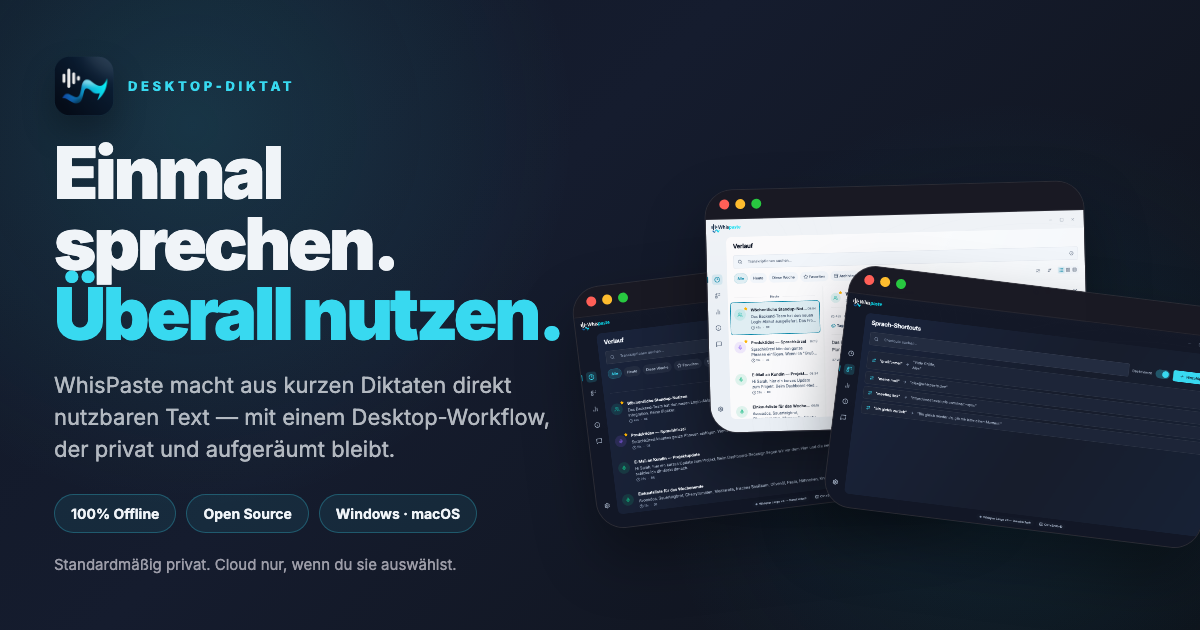
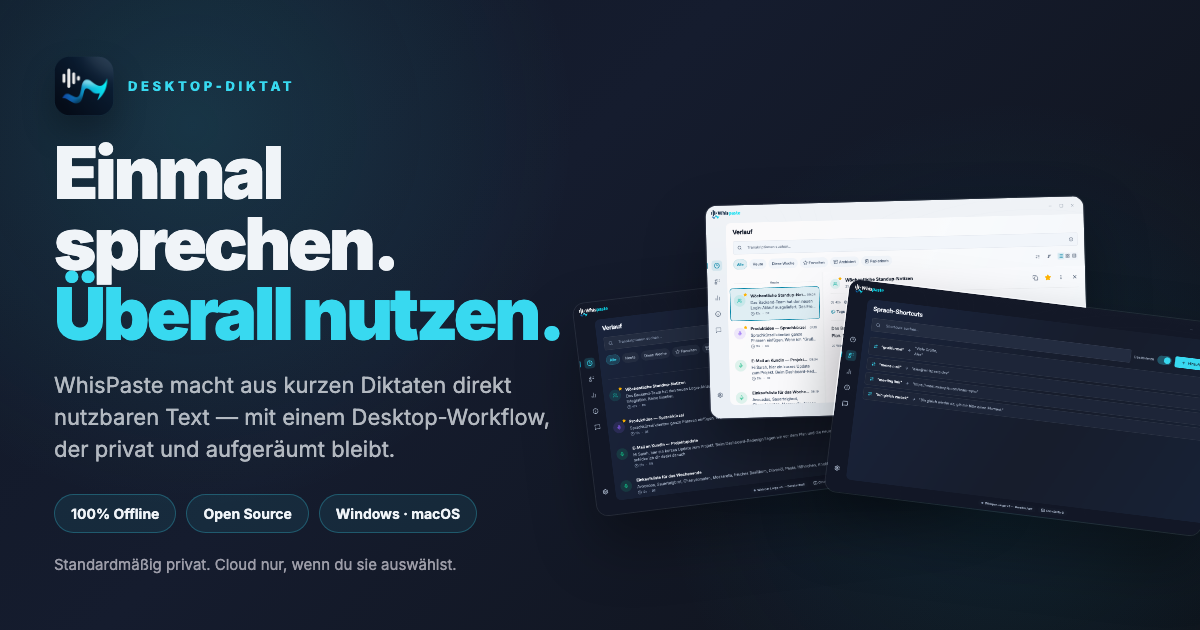
fix(og-images): remove fake window frame, correct border-radius to 12px
Screenshots already embed real window chrome — the ::before/:after
pseudo-elements were stacking a second title bar (28px strip + traffic
light dots) on top. Removed both. Reduced card border-radius from 28px
to 12px to match the real macOS window corner radius.

Changed region(s): [[0.4625, 0.3016, 0.925, 0.8143], [0.9558, 0.5429, 1.0, 0.6333], [0.8325, 0.8143, 0.8633, 0.8444]]

diff --git a/tools/appstore-screens/og-template.html b/tools/appstore-screens/og-template.html
@@ -124,31 +124,10 @@
   .card {
     position: absolute;
     width: 380px;
-    border-radius: 28px;
+    border-radius: 12px;
     overflow: hidden;
     border: 1px solid var(--line);
-    background: rgba(26, 26, 36, 0.92);
     box-shadow: 0 30px 60px rgba(0, 0, 0, 0.35);
-  }
-
-  .card::before {
-    content: '';
-    display: block;
-    height: 28px;
-    background: rgba(26, 26, 36, 0.98);
-    border-bottom: 1px solid rgba(255, 255, 255, 0.06);
-  }
-
-  .card::after {
-    content: '';
-    position: absolute;
-    top: 9px;
-    left: 14px;
-    width: 10px;
-    height: 10px;
-    border-radius: 999px;
-    background: #ff5f57;
-    box-shadow: 16px 0 0 #febc2e, 32px 0 0 #28c840;
   }
 
   .card img {
